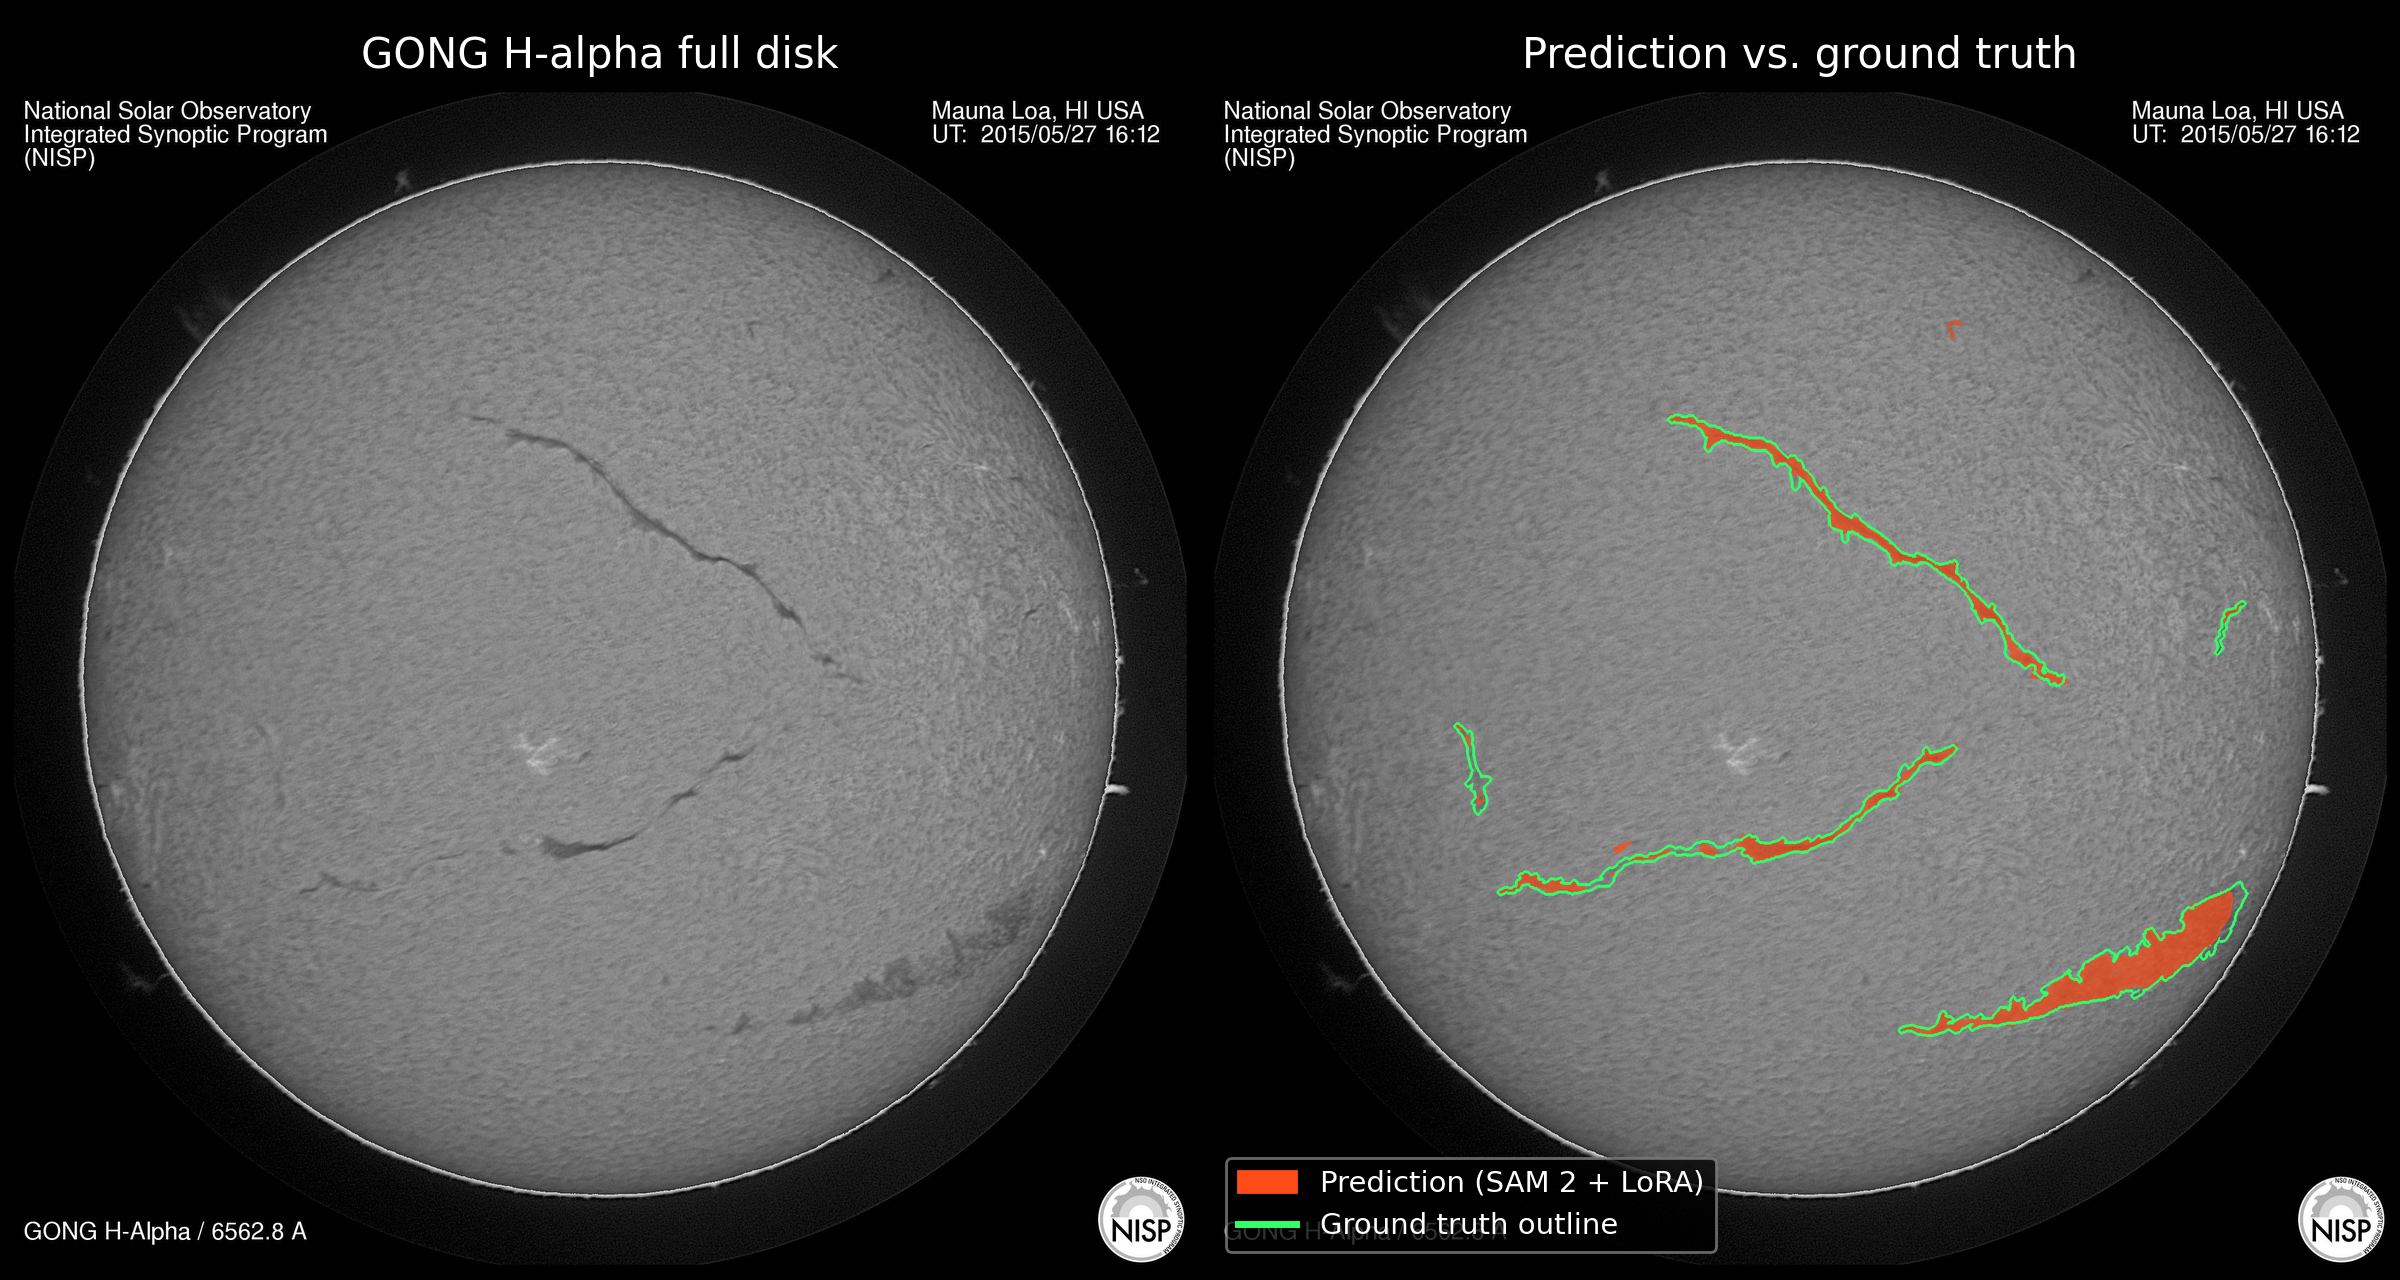
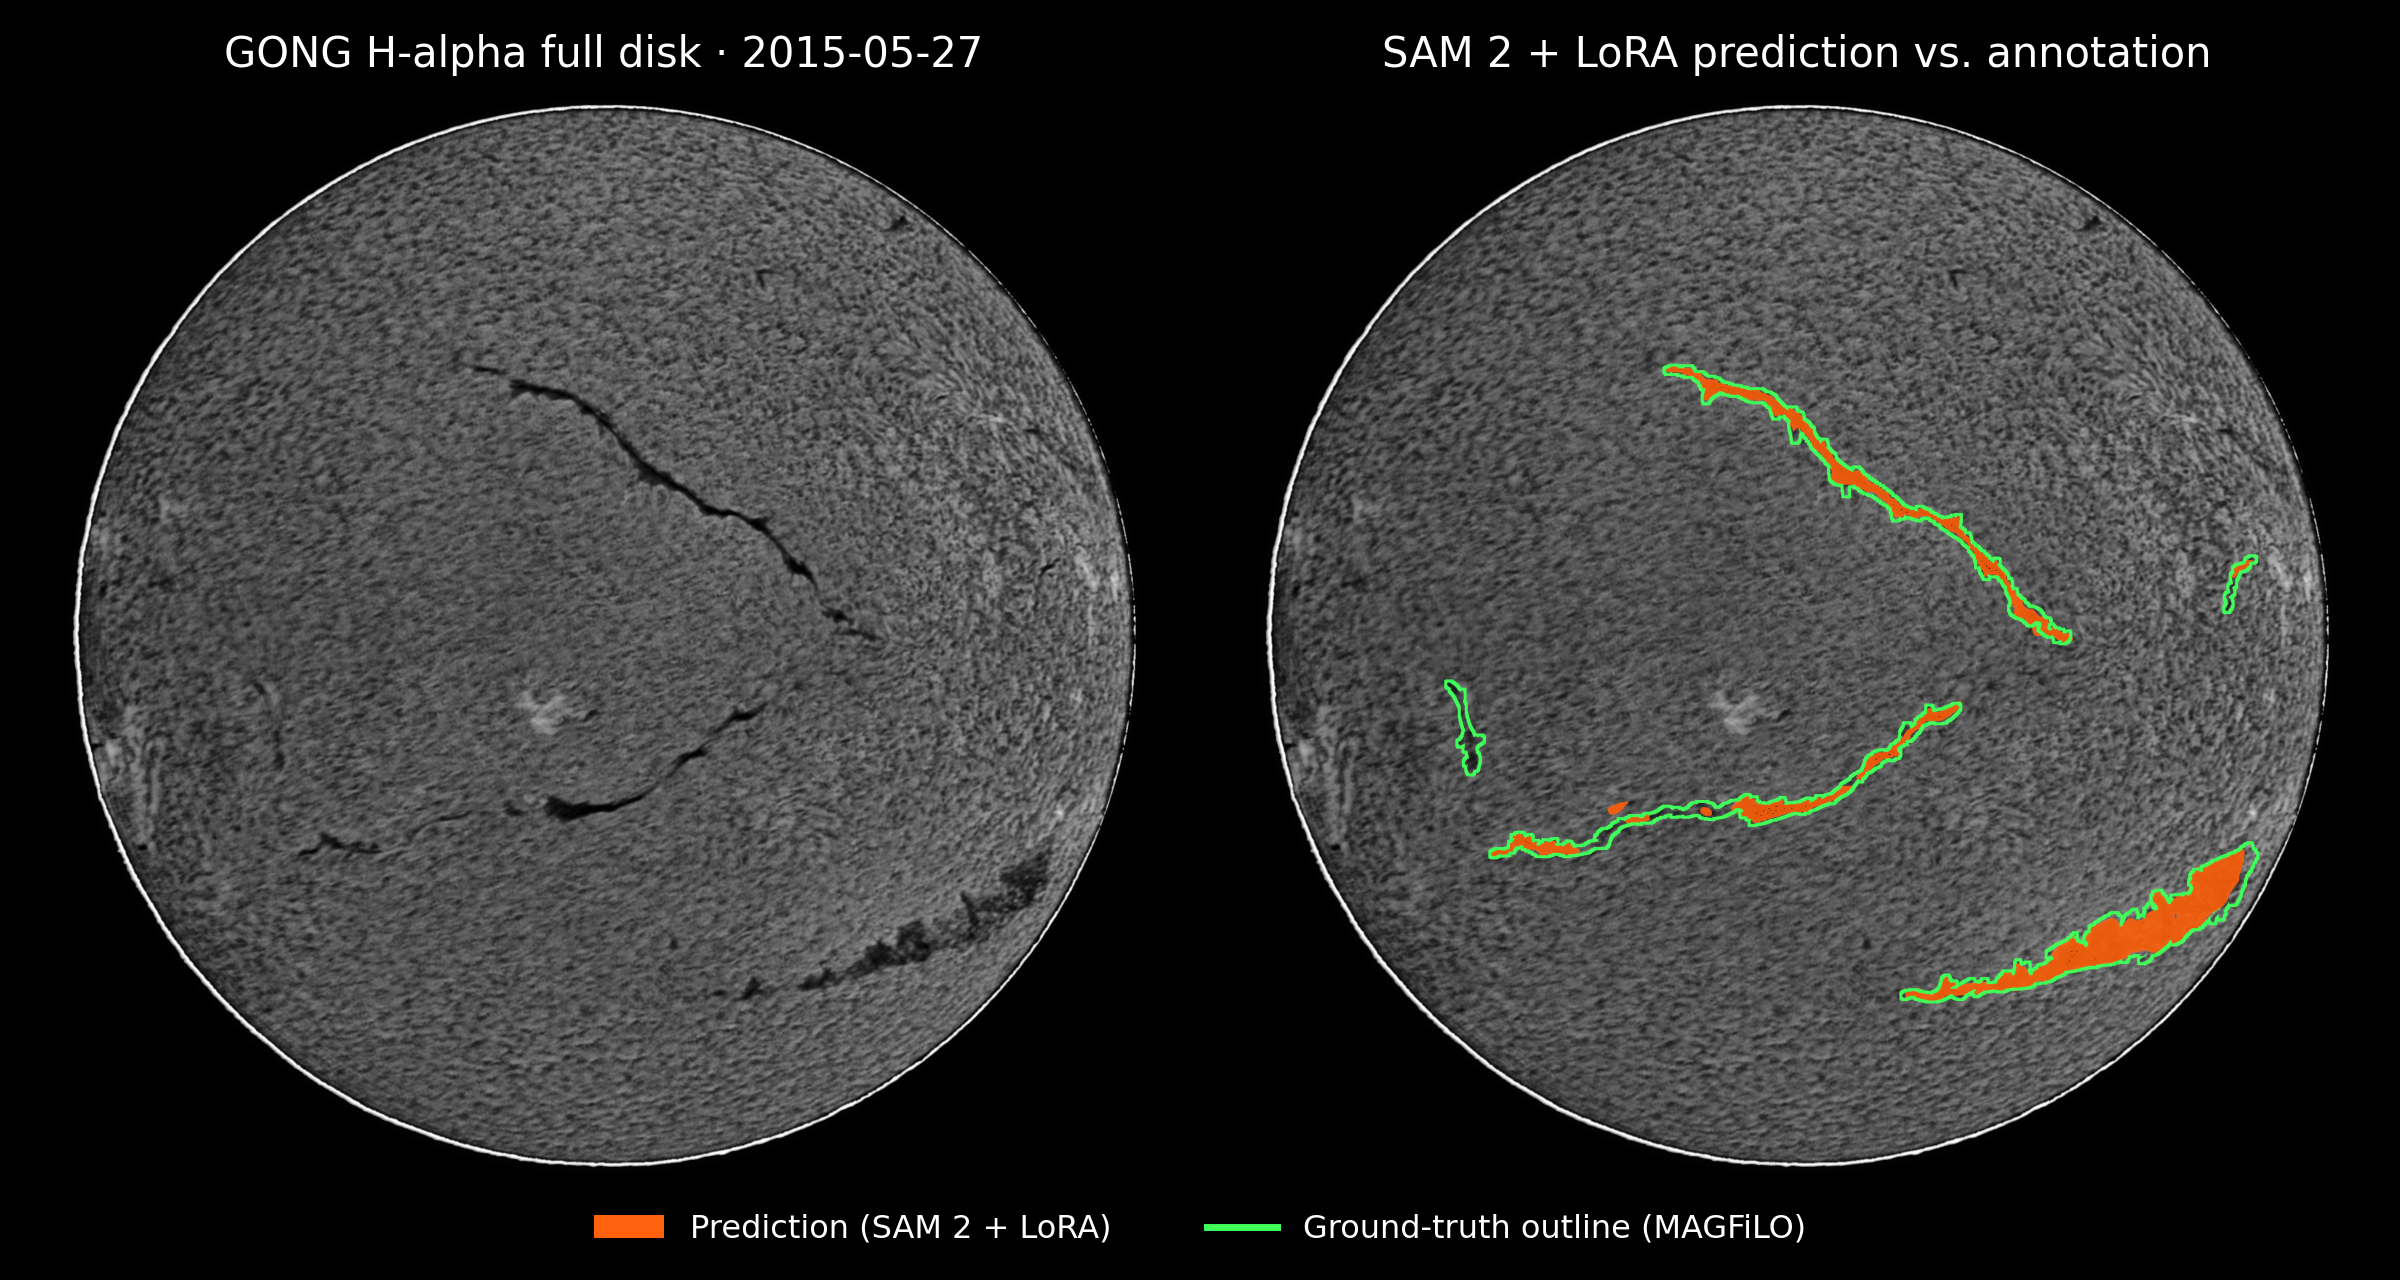
Filament card: replot — tight disk crop, limb-flattened contrast, no watermark text, larger legend

diff --git a/index.html b/index.html
@@ -70,7 +70,7 @@
   <p class="lede">Ongoing projects — click a card for key figures and links.</p>
   <div class="rcards">
     <a class="rcard" href="projects.html#solar-filament">
-      <img class="tall" src="assets/proj_filament.jpg?v=3" alt="GONG H-alpha full disk (left) and SAM 2 + LoRA filament prediction with ground-truth outline (right)">
+      <img class="tall" src="assets/proj_filament.jpg?v=4" alt="GONG H-alpha full disk (left) and SAM 2 + LoRA filament prediction with ground-truth outline (right)">
       <div class="cb">
         <span class="status">Benchmark · results online</span>
         <h3>Solar filament segmentation</h3>
